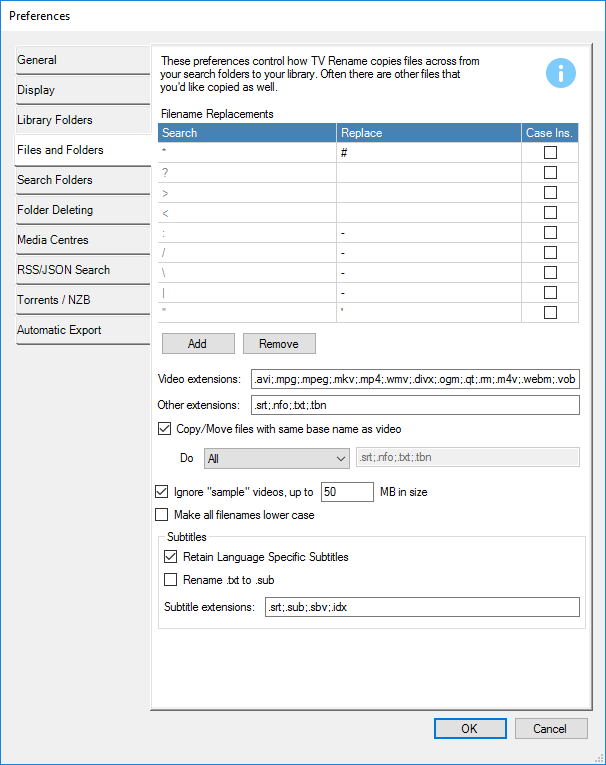
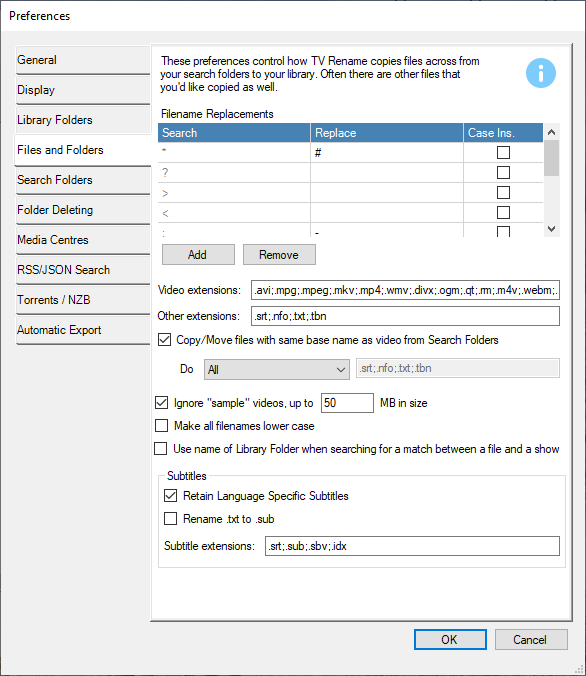
update pref-files-folders

diff --git a/_manual/options/preferences-files-folders.md b/_manual/options/preferences-files-folders.md
@@ -46,6 +46,8 @@ If _Do_ is set to **Just** the extensions listed in the text box are treated as 
 
 _Ignore "sample" videos_ and _Make all filenames lower case_ tick boxes need no further explanation.
 
+The _Use name of Library Folder..._ option extends the search for a show name to include the containing library folder name, negating the need for the show name to be present in the filename.
+
 The _**Subtitles**_ section is used to tell TV&nbsp;Rename how to handle subtitle files in your collection.
 
 The Retain Language Specific Subtitles tick box (when ticked) tells TV&nbsp;Rename to retain subtitle files containing two or three letter language codes. For example: -
